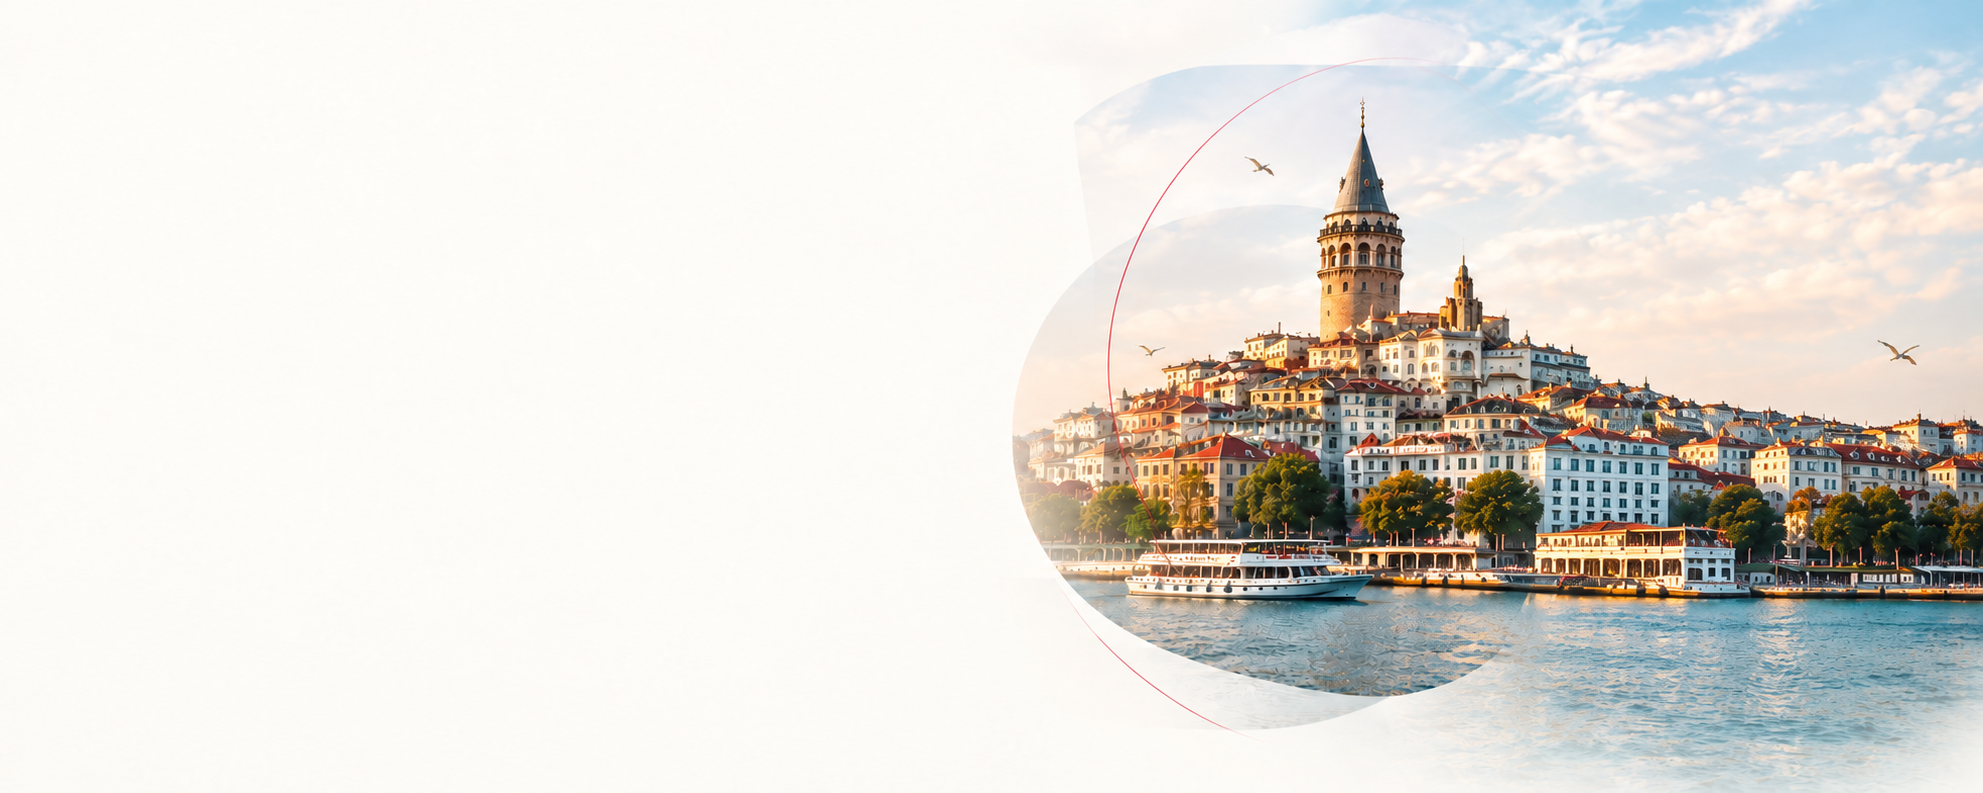
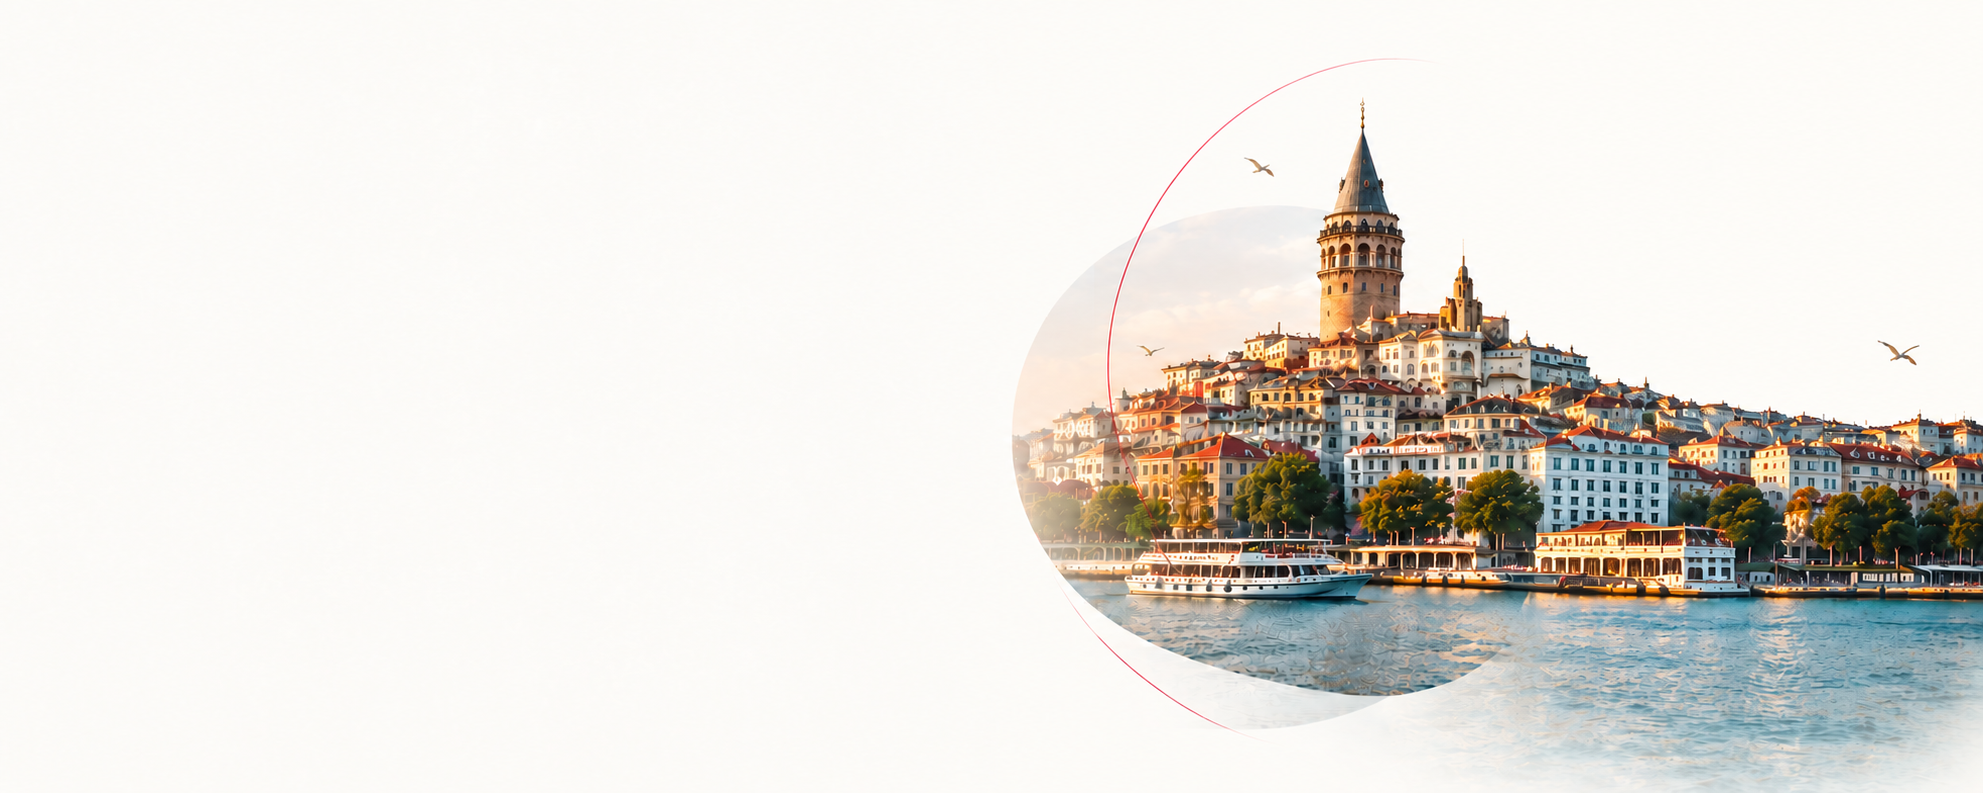
fix: add shadow between hero section and why us and make why us section image better

Changed region(s): [[0.5229, 0.0, 1.0, 0.9079], [0.646, 0.2421, 0.7075, 0.3632]]

diff --git a/src/features/landing/components/LandingPage.tsx b/src/features/landing/components/LandingPage.tsx
@@ -23,7 +23,14 @@ export function LandingPage() {
     <>
       <SiteHeader items={NAV_ITEMS} ctaHref={HERO_ACTIONS.primary} />
       <main className="flex-1">
-        <HeroSection />
+        <div className="w-full relative">
+          <HeroSection />
+          {/* Gradient separator between Hero and next section */}
+          <div
+            className="absolute bottom-0 w-full h-[10vh] bg-gradient-to-b from-transparent from-0% to-[#FEFDF9] to-90% pointer-events-none"
+            aria-hidden="true"
+          />
+        </div>
         <WhyTurkeySection />
         <TreatmentServicesSection />
         <GallerySection />
